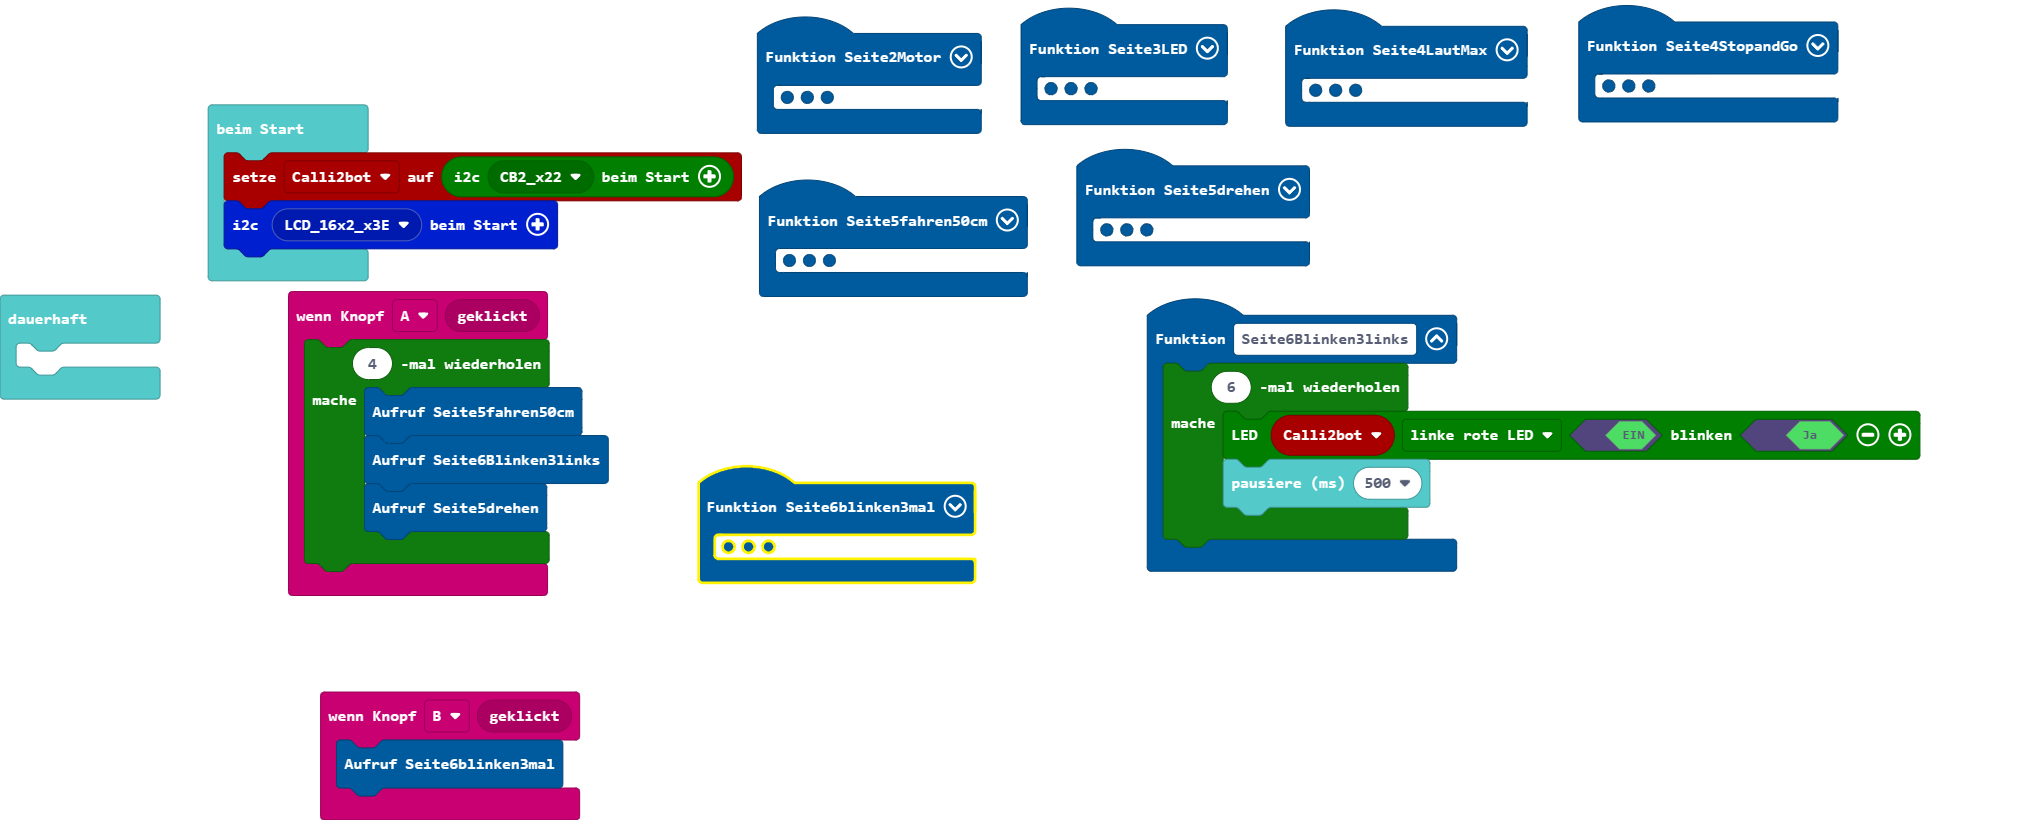
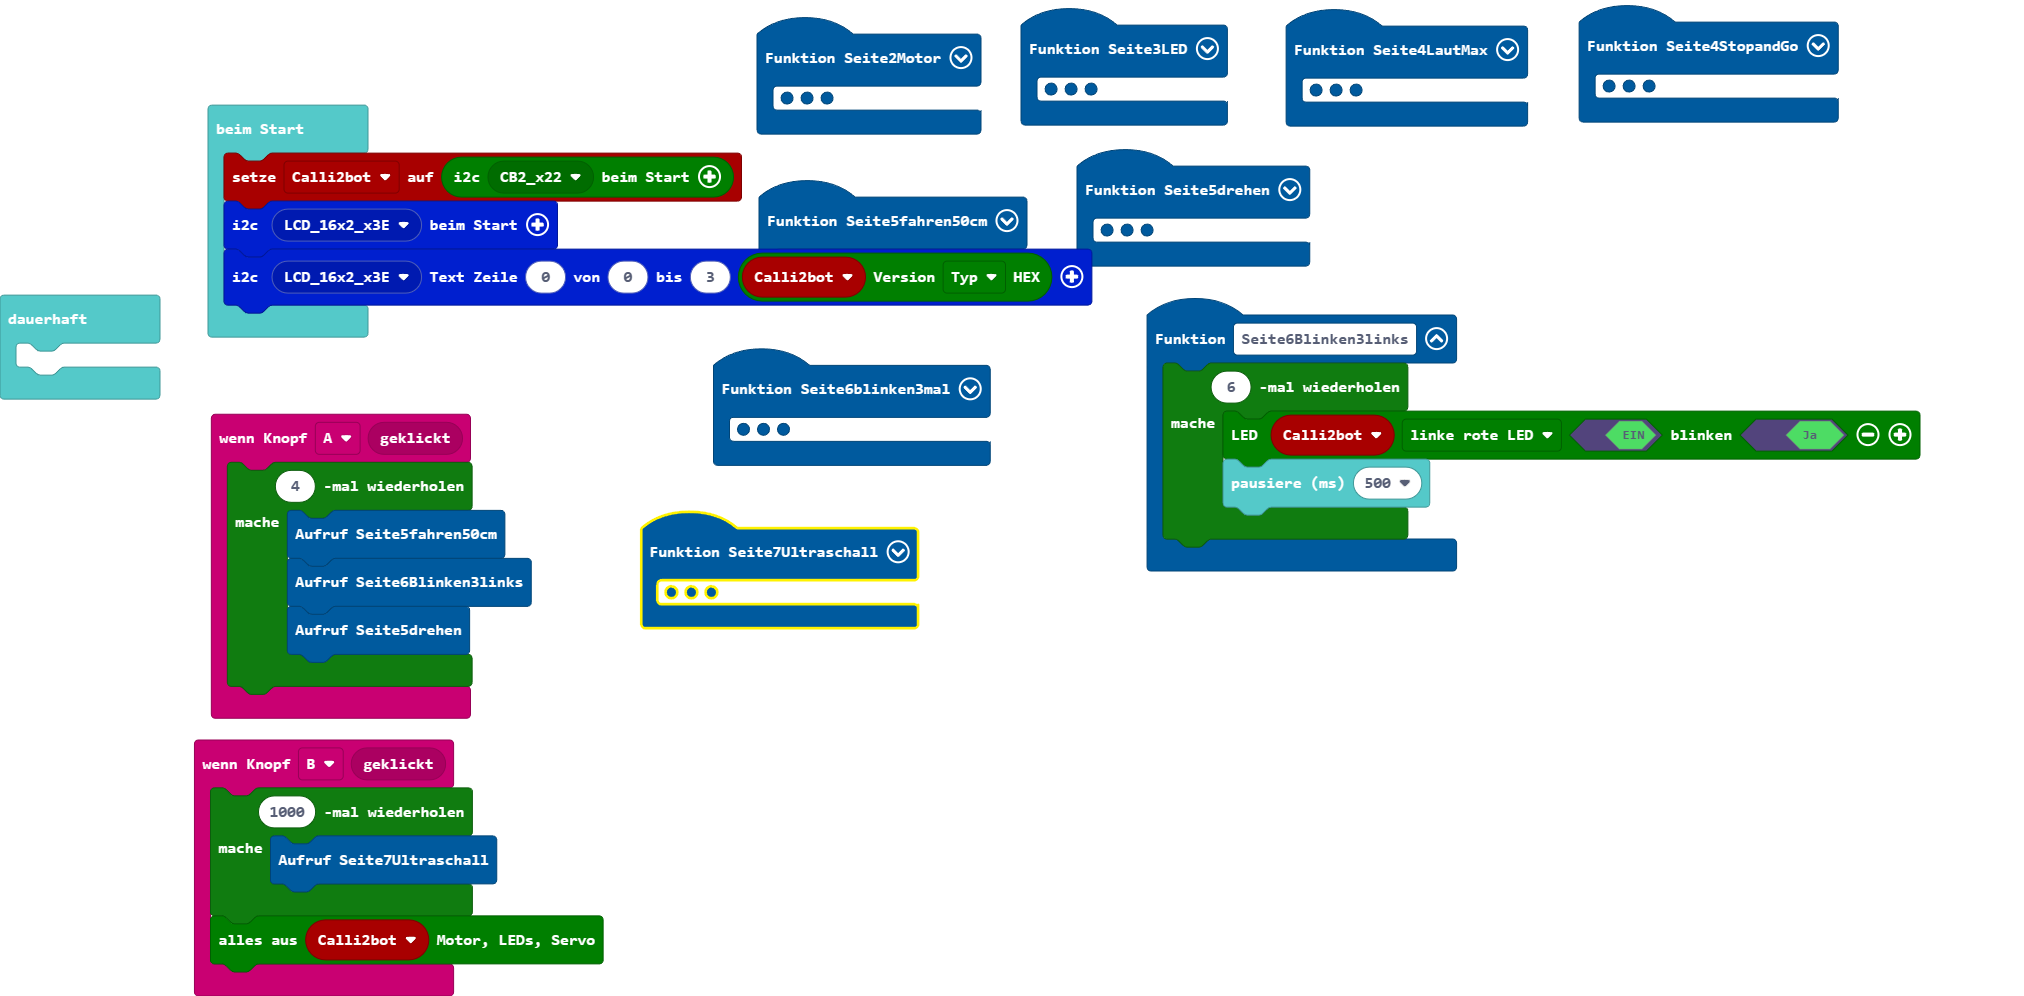
Aktualisiere pxt.json, main.blocks, main.ts

diff --git a/main.ts b/main.ts
@@ -63,7 +63,10 @@ function Seite2Motor () {
     Calli2bot.setMotoren2(0, 0)
 }
 input.onButtonEvent(Button.B, input.buttonEventClick(), function () {
-    Seite6blinken3mal()
+    for (let index = 0; index < 1000; index++) {
+        Seite7Ultraschall()
+    }
+    Calli2bot.i2cRESET_OUTPUTS()
 })
 function Seite4LautMax () {
     laut = input.soundLevel()
@@ -79,12 +82,24 @@ function Seite6Blinken3links () {
         basic.pause(500)
     }
 }
+function Seite7Ultraschall () {
+    Calli2bot.i2cReadINPUT_US()
+    lcd16x2rgb.writeText(lcd16x2rgb.lcd16x2_eADDR(lcd16x2rgb.eADDR_LCD.LCD_16x2_x3E), 0, 4, 15, Calli2bot.getINPUT_US())
+    if (Calli2bot.bitINPUT_US(calli2bot.eVergleich.gt, 15)) {
+        Calli2bot.setMotoren2(80, 80)
+    } else {
+        Calli2bot.setMotoren2(0, 0)
+        Calli2bot.setMotoren2(100, -100)
+        calli2bot.pause(calli2bot.calli2bot_ePause(calli2bot.ePause.p1))
+    }
+}
 let lautmax = 0
 let Motoran = false
 let laut = 0
 let Calli2bot: calli2bot.Calli2bot = null
 Calli2bot = calli2bot.beimStart(calli2bot.calli2bot_eADDR(calli2bot.eADDR.CB2_x22))
 lcd16x2rgb.initLCD(lcd16x2rgb.lcd16x2_eADDR(lcd16x2rgb.eADDR_LCD.LCD_16x2_x3E))
+lcd16x2rgb.writeText(lcd16x2rgb.lcd16x2_eADDR(lcd16x2rgb.eADDR_LCD.LCD_16x2_x3E), 0, 0, 3, Calli2bot.i2cReadFW_VERSION(calli2bot.eVersion.Typ))
 basic.forever(function () {
 	
 })
